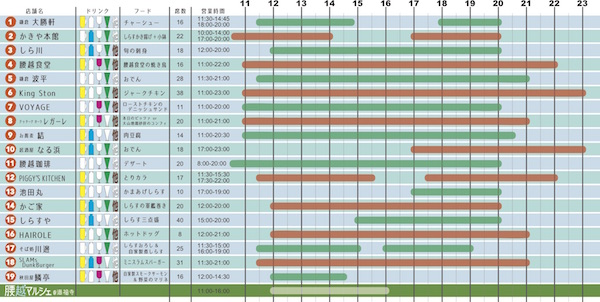
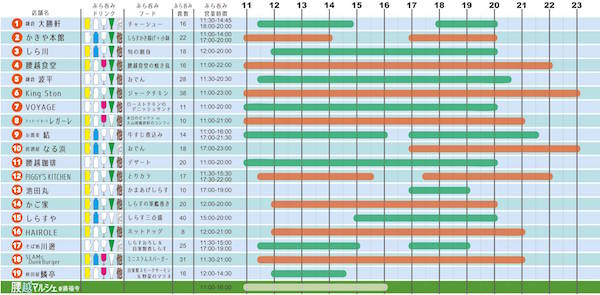
同時開催マルシェ：画像追加、promo.htmlに追加 タイムテーブル画像更新 開催までカウントダウンを秒単位でやる

diff --git a/index.html b/index.html
@@ -20,75 +20,127 @@
     <link rel="icon" type="image/x-icon" href="./img/icon/favicon.ico" />
     <link rel="apple-touch-icon" sizes="152x152" href="./img/icon/favicon-apple.png">
     <link type="text/css" rel="stylesheet" id="common_css" media="all" href="./css/common.css" charset="utf-8" />
+    <link type="text/css" rel="stylesheet" id="common_css" media="all" href="./css/promo.css" charset="utf-8" />
     <link type="text/css" rel="stylesheet" id="common_css" media="all" href="./css/balloon.css" charset="utf-8" />
+    <link type="text/css" rel="stylesheet" id="common_css" media="all" href="./css/modal.css" charset="utf-8" />
 
     <script type="text/javascript" src="./js/jquery-3.2.1.min.js"></script>
     <script type="text/javascript" src="./js/common.js"></script>
     <script type="text/javascript" src="./js/index.js"></script>
+    <script type="text/javascript" src="./js/promo.js"></script>
 
 </head>
 
 <body>
     <div class="wrapper">
         <div class="inner">
-            <div class="inner-section header clearfix">
-                <a class="left logo" href="http://koshigoe.buranomi.fun/">
-                    <h1><img src="./img/fb_top_ogp.jpg" alt="第2回 腰越ぶらり呑み歩きの日 2017"></h1>
-                </a>
-                <a id="" class="right header-icon" href="http://magobay.jp/contact" target="_blank">
-                    <img src="./img/icon/mail.png" alt="Contact" title="Contact">
-                </a>
-                <a class="right header-icon" href="http://yooying.com/koshigoe_buranomi" target="_blank">
-                    <img src="./img/icon/instagram.png" alt="Koshistagram" title="Official Instagram">
-                </a>
-                <a class="right header-icon" href="https://www.facebook.com/koshigoeburari/" target="_blank">
-                    <img src="./img/icon/facebook.png" alt="Facebook" title="Official Facebook Page">
-                </a>
-            </div>
             <div class="keyvisual">
-                <img src="./img/top.jpg">
-                <p class="keyvisual-copyright">&copy; 2017「きみの声をとどけたい」製作委員会</p>
+                <h1><img src="./img/fb_top_ogp.jpg" alt="第2回 腰越ぶらり呑み歩きの日 2017"></h1>
             </div>
+
             <div class="clearfix">
                 <div class="tweet">
                     <a href="https://twitter.com/intent/tweet?button_hashtag=%E8%85%B0%E8%B6%8A%E3%81%B6%E3%82%89%E3%82%8A%E5%91%91%E3%81%BF%E6%AD%A9%E3%81%8D%E3%81%AE%E6%97%A5&abc" class="twitter-hashtag-button" data-lang="ja"></a> <script>!function(d,s,id){var js,fjs=d.getElementsByTagName(s)[0],p=/^http:/.test(d.location)?'http':'https';if(!d.getElementById(id)){js=d.createElement(s);js.id=id;js.src=p+'://platform.twitter.com/widgets.js';fjs.parentNode.insertBefore(js,fjs);}}(document, 'script', 'twitter-wjs');</script>
                 </div>
             </div>
 
-            <div class="inner-section countdown clearfix">
-                <p>開催まであと<span id="countdown_day">0</span>日</p>
+            <div class="inner-section about clearfix">
+                <h2 class="">腰越ぶらり呑み歩きの日とは</h2>
+                <div class="about-desc">
+                    <p style="font-weight:bold;">『海辺ノスタルジックタウン腰越』</p>
+                    <p>江ノ電が唯一路面電車になる港まち、腰越。</p>
+                    <p>地域住民と飲食店が協力して<br>呑み歩きイベントを企画しました。</p>
+                    <p>故郷のようなどこか懐かしい雰囲気を感じる<br>海辺の腰越をご堪能ください。</p>
+                </div>
+                <div class="price">
+                    <h3>料金</h3>
+                    <table>
+                        <tr>
+                            <th>当日券</th>
+                        </tr>
+                        <tr>
+                            <td>¥2,500</td>
+                        </tr>
+                    </table>
+                </div>
+                <div class="store-btn">
+                    <a href="./store.html">
+                        <p><img src="./img/icon/beer.png">参加店舗をみる &gt;</p>
+                    </a>
+                </div>
             </div>
 
-            <div class="inner-section storelist-btn clearfix">
-                <a href="./store.html">
-                    <img src="./img/kameiten.jpg">
-                    <div>加盟店一覧</div>
+            <hr class="inner-section">
+
+            <div class="inner-section map">
+                <h2>ぶら呑みマップ</h2>
+                <a href="./img/map_3.jpg" target="_blank">
+                    <img src="./img/map_3trim.jpg">
+                </a>
+            </div>
+            <div class="inner-section map">
+                <h2>タイムテーブル</h2>
+                <a href="./img/timetable.jpg" target="_blank">
+                    <img src="./img/timetabletrim.jpg">
+                </a>
+            </div>
+            <div class="inner-section map">
+                <h2>同時開催 腰越マルシェ</h2>
+                <a href="./img/marche.jpg" target="_blank">
+                    <img src="./img/marchetrim.jpg">
                 </a>
             </div>
 
             <div class="inner-section admin-message clearfix">
                 <h2 class="">実行委員会のつぶやき</h2>
-                <img class="koshitter" src="./img/logo/koshitter2.jpg">
+                <img class="koshitter" src="./img/logo/koshitter2.jpg" alt="koshitter">
                 <a class="twitter-timeline" data-height="400px" data-chrome="noheader" href="https://twitter.com/Koshigoe_burari">Tweets by Koshigoe_burari</a> <script async src="//platform.twitter.com/widgets.js" charset="utf-8"></script>
-            </div>
-
-            <div class="inner-section map">
-                <h2>MAP</h2>
-                <a href="./img/map.jpg" target="_blank">
-                    <img src="./img/map.jpg">
-                </a>
             </div>
 
             <!-- Instagram --><!-- SnapWidget -->
             <div class="inner-section instagram">
-                <a href="http://yooying.com/koshigoe_buranomi" target="_blank"><img src="./img/logo/koshistagram.jpg"></a>
+                <h2><a href="http://yooying.com/koshigoe_buranomi" target="_blank"><img src="./img/logo/koshistagram.jpg" alt="koshistagram"></a></h2>
                 <script src="https://snapwidget.com/js/snapwidget.js"></script>
                 <iframe src="https://snapwidget.com/embed/419341" class="snapwidget-widget" allowTransparency="true" frameborder="0" scrolling="no" style="border:none; overflow:hidden; width:100%; "></iframe>
             </div>
 
-            <div class="inner-section caution">
-                <a href="./img/caution.png" target="_blank">
-                    <h2><img src="./img/caution.png" alt="ぶら呑みの教え"></h2>
+            <!-- HOW TO ぶら呑み -->
+            <div class="inner-section howto">
+                <h2>HOW to ぶら呑み</h2>
+                <p>腰越ぶらり呑み歩きの日の楽しみ方</p>
+                <ol>
+                    <li>
+                        3枚綴りのぶら呑みチケットを購入
+                    </li>
+                    <li>
+                        お店自慢のぶら呑みセットを堪能<br>
+                        <span>参加店舗と自慢のセットは<a href="./store.html">こちら</a>から</span>
+                    </li>
+                    <li>
+                        次のお店へぶらりとGO！<br>
+                        <span>他の気になるメニューは別料金でオーダーしてね</span>
+                    </li>
+                </ol>
+                <ul>
+                    <li style="color:red;">チケットは日にち指定で当日のみ有効です</li>
+                    <li>チケットは１人１枚お持ちください</li>
+                    <li>１人１店舗１回のみのご使用とさせていただきます</li>
+                    <li>ぶら呑みメニュー以外のご注文・追加は別料金を頂戴します</li>
+                    <li>各店のメニューは予告なく変更になる場合があります</li>
+                    <li>ぶら呑みメニュー完売の際は時間前に終了する場合があります</li>
+                    <li>電車通りは江ノ電優先です。通行の際はご注意ください</li>
+                    <li>飲酒運転はやめましょう！公共交通機関をご利用ください</li>
+                </ul>
+            </div>
+
+            <div class="inner-section facebook">
+                <h2>最新情報・お問い合わせ</h2>
+                <a href="https://www.facebook.com/koshigoeburari/" target="_blank">
+                    <img src="./img/icon/FB-f-Logo__white_144.png">
+                    <div class="text">
+                        <p>腰越ぶらり呑み歩きの日</p>
+                        <p>Facebook ページ</p>
+                    </div>
                 </a>
             </div>
 
@@ -97,7 +149,7 @@
                 <h5>主催</h5>
                 <p>腰越ぶらり呑み歩き実行委員会</p>
                 <h5>協力</h5>
-                <p><span><img src="./img/logo/enoden.png"></span><span><img src="./img/logo/monorail.jpg"></span></p>
+                <p><span><img src="./img/logo/enoden.png" alt="江ノ電"></span><span><img src="./img/logo/monorail.jpg" alt="湘南モノレール"></span></p>
                 <p><span>腰越協栄会</span><span>カマコン<reg>&reg;</reg></span></p>
                 <p><span><img src="./img/logo/itbu3.jpg" alt="ぶら呑みIT部：古賀一樹,中丸潤,武富直之,谷口耕平,加納太玄" title="古賀一樹,中丸潤,武富直之,谷口耕平,加納太玄"></span></p>
                 <h5 class="produced">Produced by MAGO BAY JAPAN</h5>

diff --git a/js/promo.js b/js/promo.js
@@ -7,9 +7,7 @@ $(function(){
 
       getTicketRestCount();
 
-        count = compareDate(2017, 11, 25, today.getFullYear(), today.getMonth()+1, today.getDate());
-        $('#countdown_day').text(count);
-
+      updateCountdown();
         // modal_reserve();
     }
     /**
@@ -26,7 +24,37 @@ $(function(){
         var dt2 = new Date(year2, month2 - 1, day2);
         var diff = dt1 - dt2;
         var diffDay = diff / 86400000;//1日は86400000ミリ秒
+        return diff;
         return diffDay;
+    }
+    function countdown(year, month, day, hour, min, sec) {
+        var now = new Date();
+        var tar = new Date(year, month - 1, day, hour, min, sec);
+        var diff = tar - now;
+        var diff_d = Math.floor(diff / 86400000);   // 1日は86400000msec
+        var rest_d = diff % 86400000;
+        var diff_h = Math.floor(rest_d / 3600000);  // 1時間は36000000msec
+        var rest_h = rest_d % 3600000;
+        var diff_m = Math.floor(rest_h / 60000);  // 1分は60000msec
+        var rest_m = rest_h % 60000;
+        var diff_s = Math.floor(rest_m / 1000);  // 1秒は1000msec
+        var rest_s = rest_m % 60000;
+        var diff_ms = Math.floor(rest_s);
+        return [diff_d, diff_h, ('00' + diff_m).slice(-2), ('00' + diff_s).slice(-2), ('00' + diff_ms).slice(-2)]
+        // return diff_d + '日' + diff_h + ':' + diff_m + ':' + ('00' + diff_s).slice(-2);
+    }
+    function updateCountdown() {
+        // count = compareDate(2017, 11, 25, today.getFullYear(), today.getMonth()+1, today.getDate());
+        count = countdown(2017, 11, 25, 11, 00, 00);
+        if (count[0] >= 0) {
+            $('#countdown_day').text(count[0]);
+            $('#countdown_hour').text(count[1]);
+            $('#countdown_min').text(count[2]);
+            $('#countdown_sec').text(count[3]);
+            $('.premode').show();
+        } else {
+            $('.premode').hide();
+        }
     }
 
     function modal_reserve() {
@@ -107,7 +135,8 @@ $(function(){
     }
 
     init();
-    setInterval(getTicketRestCount, 60000);
+    setInterval(updateCountdown, 1000);
+    setInterval(getTicketRestCount, 1000);
 
     //-->
 });

diff --git a/promo.html b/promo.html
@@ -44,8 +44,8 @@
                 </div>
             </div>
 
-            <div class="inner-section countdown clearfix">
-                <p>開催まであと<span id="countdown_day">0</span>日</p>
+            <div class="inner-section countdown clearfix premode">
+                <p>開催まで<span id="countdown_day">0</span>日<span id="countdown_hour">00</span>時間<span id="countdown_min">00</span>分<span id="countdown_sec">00</span>秒</p>
             </div>
 
             <div class="inner-section about clearfix">
@@ -60,11 +60,11 @@
                     <h3>料金</h3>
                     <table>
                         <tr>
-                            <th>前売券</th>
+                            <th class="premode">前売券</th>
                             <th>当日券</th>
                         </tr>
                         <tr>
-                            <td>¥2,400</td>
+                            <td class="premode">¥2,400</td>
                             <td>¥2,500</td>
                         </tr>
                     </table>
@@ -114,6 +114,12 @@
                 <h2>タイムテーブル</h2>
                 <a href="./img/timetable.jpg" target="_blank">
                     <img src="./img/timetabletrim.jpg">
+                </a>
+            </div>
+            <div class="inner-section map">
+                <h2>同時開催 腰越マルシェ</h2>
+                <a href="./img/marche.jpg" target="_blank">
+                    <img src="./img/marchetrim.jpg">
                 </a>
             </div>
 

diff --git a/css/common.css b/css/common.css
@@ -152,16 +152,22 @@ table.list td {
     margin: 10px auto;
 }
 .countdown p {
+    font-size: 80%;
     text-align: center;
     border-top: solid 2px #7acce7;
     border-bottom: solid 2px #7acce7;
     color: #333;
+    padding: 3px 0;
 }
-.countdown span#countdown_day {
-    font-size: 135%;
+.countdown p span {
+    font-size: 150%;
     font-weight: bold;
     color: #FF2020;
-    padding: 0 5px;
+    padding: 0 4px;
+}
+
+.premode {
+    display: none;
 }
 
 /***********************
